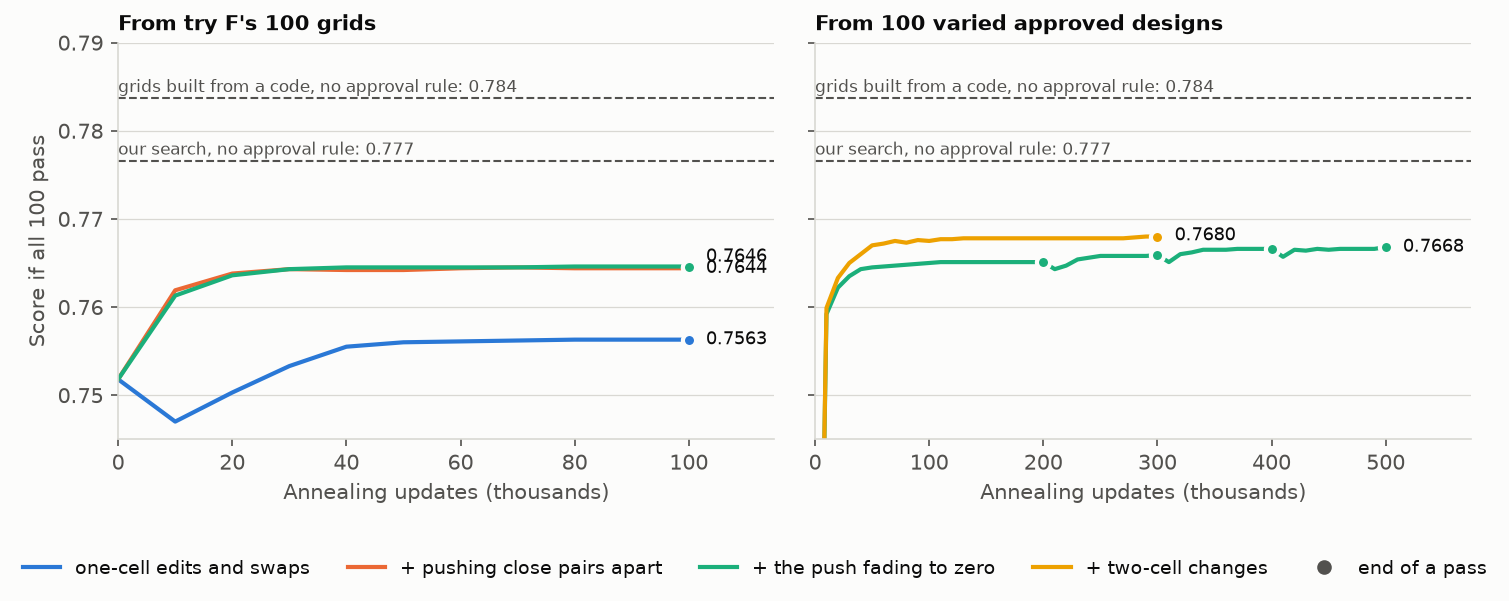
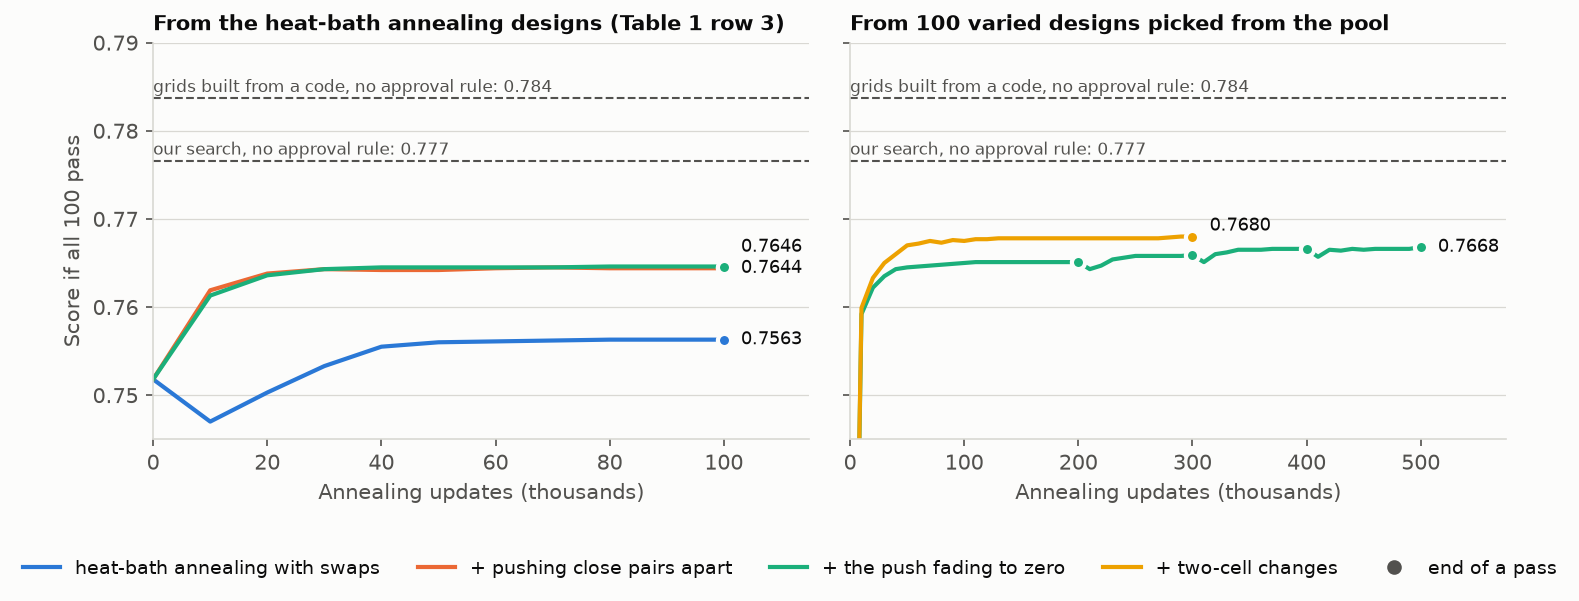
Search figure: panel and method names match the report's Table 1; end labels no longer overlap

diff --git a/plots.py b/plots.py
@@ -1050,7 +1050,7 @@ def fig_search(runs, ceilings):
     for ax, panel in zip(axes, panels):
         mine = [r for r in runs if r["panel"] == panel]
         x_end = max(r["updates"][-1] for r in mine) / 1000
-        tops = _spread([r["score"][-1] for r in mine], 0.0013)
+        tops = _spread([r["score"][-1] for r in mine], 0.0024)
         for r, top in zip(mine, tops):
             colour = SERIES[methods.index(r["method"])]
             x = np.array(r["updates"]) / 1000
